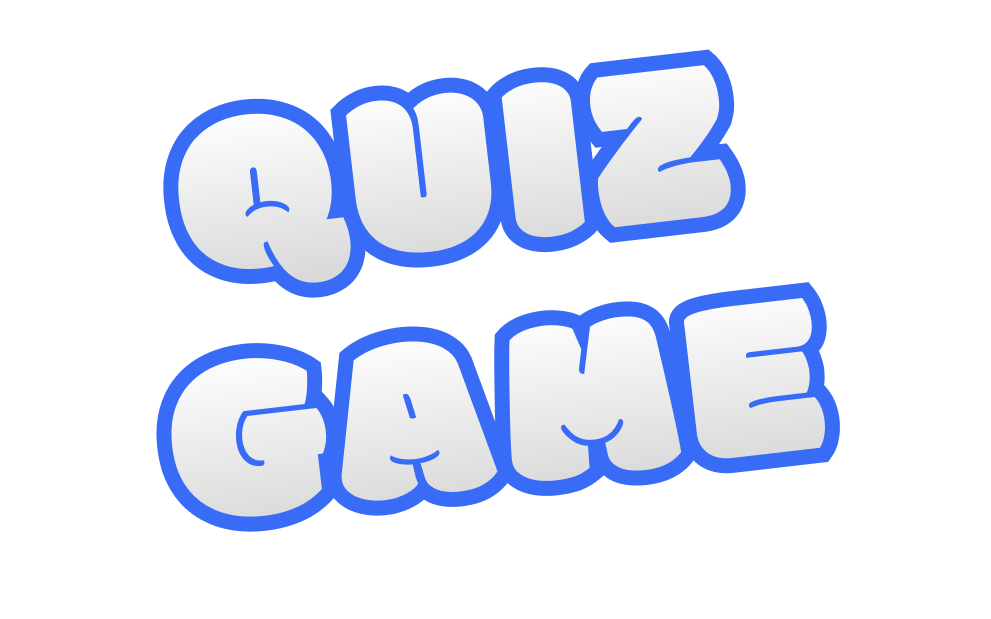
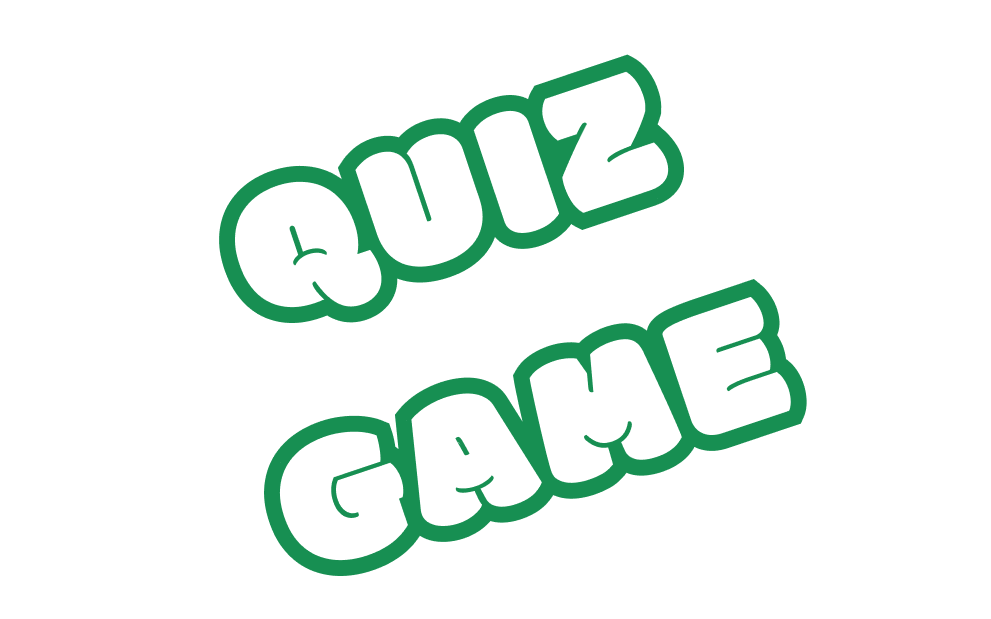
updated design of games

Changed region(s): [[0.1514, 0.0614, 0.8476, 0.9515]]

diff --git a/css/main.css b/css/main.css
@@ -1,6 +1,7 @@
 /* ==========================================================================
    Base styles: opinionated defaults
    ========================================================================== */
+   @import url('https://fonts.googleapis.com/css2?family=Cairo:wght@600&display=swap');
    html,button,input,select,textarea {
     color:#222;
     }
@@ -58,16 +59,16 @@
        Main styles
        ========================================================================== */
 
-    html{-webkit-tap-highlight-color: rgba(0,0,0,0);-webkit-user-select: none;-webkit-touch-callout:none; background:#8076dd;}
+    html{-webkit-tap-highlight-color: rgba(0,0,0,0);-webkit-user-select: none;-webkit-touch-callout:none; background:#178E52;}
 
     /*-- Percent Loader -- */
-    #mainLoader{position:absolute; z-index:5; display:none; font-size:30px; line-height:30px; color:#fff; text-align:center; width:100%; font-family:'Outfit';}
+    #mainLoader{position:absolute; z-index:5; display:none; font-size:30px; line-height:30px; color:#fff; text-align:center; width:100%; font-family:'Cairo';}
 
     /*-- Mobile Rotate Instruction -- */
-    #rotateHolder{position:absolute;width:100%;height:100%;background-color:#8076dd;z-index:1000; display:none;}
+    #rotateHolder{position:absolute;width:100%;height:100%;background-color:#178E52;z-index:1000; display:none;}
     .mobileRotate{width:200px;height:auto;position:absolute;text-align:center;top:45%;left:calc(50% - 100px)}
     .rotateImg{ margin-bottom:10px;}
-    .rotateDesc{color:#fff; font-size:20px; line-height:20px; font-family:'Outfit';}
+    .rotateDesc{color:#fff; font-size:20px; line-height:20px; font-family:'Cairo';}
     .rotatePortrait{ animation:spinPortrait .5s linear infinite; }
     .rotateLandscape{ animation:spinLandscape .5s linear infinite; }
 
@@ -83,7 +84,7 @@
     }
 
     /*-- Content Wrapper -- */
-    #mainHolder{position:relative; width:100%; height:100%; display:none; background: url(../assets/background.svg) center no-repeat; background-size: cover; font-family:'Outfit';}
+    #mainHolder{position:relative; width:100%; height:100%; display:none; background: url(../assets/background.svg) center no-repeat; background-size: cover; font-family:'Cairo';}
     #option{ position:absolute; top:15px; right:15px; z-index:20; width: 5%; max-width: 60px; min-width: 40px; }
     #buttonScoreboard{ position: absolute; right: 125%; }
     .buttonFullscreen, .buttonSound, .buttonExit{ margin:5px 0px;}
@@ -98,7 +99,7 @@
     .buttonOptionOff .optionOff{ display:none;}
 
     .buttonIcon{ width:100%;}
-    .fontLoader{font-family:'Outfit'; font-size:25px; line-height:25px; color:#fff;}
+    .fontLoader{font-family:'Cairo'; font-size:25px; line-height:25px; color:#fff;}
 
     /*-- Logo Wrapper -- */
     #logoHolder{display: table; position: absolute; height: 100%; width: 100%; color:#FFF; text-align:center;}
@@ -109,7 +110,7 @@
 
     /*-- Confirm Wrapper -- */
     #confirmHolder{ width:100%; height:100%; margin:auto; position:absolute; overflow: hidden; z-index:1000;}
-    .confirmContent .message{ position:absolute; background:#107FC9; width:50%; height:50%; left:25%; top:30%; text-align:center; -webkit-border-radius: 20px;-moz-border-radius: 20px;border-radius: 20px; color:#FFF; padding:5% 10%;}
+    .confirmContent .message{ position:absolute; background:#178E52; width:50%; height:50%; left:25%; top:30%; text-align:center; -webkit-border-radius: 20px;-moz-border-radius: 20px;border-radius: 20px; color:#FFF; padding:5% 10%;}
 
     .confirmContent .okImg{ position:absolute; width:20%; top:63%; left:29%;}
     .confirmContent .cancelImg{ position:absolute; width:20%; top:63%; right:29%;}
@@ -134,8 +135,8 @@
     #gameStatus{ position:absolute; top:0; left:0; margin:15px; width:100%; height:100%;}
     #gameStatus .gameTotal{ position:absolute; top:0; left:0; width:9%;}
     #gameStatus .gameTimer{ position:absolute; top:0; left:41%; width:15%; text-align:center;}
-    .gameQuestionStatus{ position:absolute; top:18%; text-align:center; color:#524e9a; width:100%;}
-    .gameTimerStatus{ position:absolute; top:18%; text-align:center; color:#524e9a; width:100%; left:18%;}
+    .gameQuestionStatus{ position:absolute; top:18%; text-align:center; color:#237C50; width:100%;}
+    .gameTimerStatus{ position:absolute; top:18%; text-align:center; color:#237C50; width:100%; left:18%;}
 
     #questionHolder{ position:relative; width:100%; height:100%;}
     #questionHolder .question{ position:absolute; width:100%; white-space: pre-line;}
@@ -177,12 +178,12 @@
     /*-- Scoreboard -- */
     #scoreboardHolder{display: table; position: absolute; height: 100%; width: 100%; display: none; top:0; }
     .resultExtra{ width:100%; height:100%; position:absolute; margin:auto; text-align:center; color:#fff; display:none;}
-    .scoreContent, .submitContent{ position:relative; background:#107FC9; width:85%; height:90%; -webkit-border-radius: 25px;-moz-border-radius: 25px;border-radius: 25px; margin:auto; margin-top:3%;}
+    .scoreContent, .submitContent{ position:relative; background:#178E52; width:85%; height:90%; -webkit-border-radius: 25px;-moz-border-radius: 25px;border-radius: 25px; margin:auto; margin-top:3%;}
     .scoreTitle{ padding:2% 0 0;}
     .scoreContent ul.scoreList{ list-style:none; padding:0; margin:1% auto; width:90%; position:relative; height:72%;}
     .scoreContent ul.scoreList li{ width: 100%; padding:1% 2%; display: table;}
     .scoreContent ul.scoreList li .list{ display: table-cell;}
-    .scoreContent ul.scoreList li:nth-child(odd) {	background:#1697ED; }
+    .scoreContent ul.scoreList li:nth-child(odd) {	background:#178E52; }
 
     .scoreContent .left{ position:absolute; width:5%; bottom:2%; left:5%; }
     .scoreContent .right{ position:absolute; width:5%; bottom:2%; right:5%; }
@@ -196,28 +197,28 @@
     .buttonCancelSubmit{ float:right; width:48%;}
 
 
-    .fontStatus{font-family:'Outfit'; font-size:30px; line-height:30px; color:#fff;}
-    .fontQuestion{ font-family:'Outfit';}
-    .fontAnswer{ font-family:'Outfit';}
-    .fontAnswerInput{ font-family:'Outfit';}
-    .fontCorrectWrong{ font-family:'Outfit';}
-    .fontResultScore{font-family:'Outfit';}
-    .fontShare{font-family:'Outfit';}
-    .fontCategory{font-family:'Outfit';}
-    .fontMessage{font-family:'Outfit';}
-    .fontPreload{font-family:'Outfit';}
-    .fontScoreTitle{font-family:'Outfit';}
-    .fontScoreList{font-family:'Outfit';}
-    .fontLabel{font-family:'Outfit';}
-    .fontInput{font-family:'Outfit';}
-    .fontError{font-family:'Outfit'; color: #FFBF00;}
+    .fontStatus{font-family:'Cairo'; font-size:30px; line-height:30px; color:#fff;}
+    .fontQuestion{ font-family:'Cairo';}
+    .fontAnswer{ font-family:'Cairo';}
+    .fontAnswerInput{ font-family:'Cairo';}
+    .fontCorrectWrong{ font-family:'Cairo';}
+    .fontResultScore{font-family:'Cairo';}
+    .fontShare{font-family:'Cairo';}
+    .fontCategory{font-family:'Cairo';}
+    .fontMessage{font-family:'Cairo';}
+    .fontPreload{font-family:'Cairo';}
+    .fontScoreTitle{font-family:'Cairo';}
+    .fontScoreList{font-family:'Cairo';}
+    .fontLabel{font-family:'Cairo';}
+    .fontInput{font-family:'Cairo';}
+    .fontError{font-family:'Cairo'; color: #FFBF00;}
 
     /*-- Form Wrapper -- */
     #editWrapper{ display:none;}
-    #floatForm{ position:absolute; left:0; top:0; z-index:100; background:#4DA6FF; padding:15px; color:#FFF; width:280px; border:#fff solid 2px;}
+    #floatForm{ position:absolute; left:0; top:0; z-index:100; background:#178E52; padding:15px; color:#FFF; width:280px; border:#fff solid 2px;}
     #floatForm{ font-size:12px;}
-    #floatForm #questionWrapper, #floatForm #answersWrapper, #floatForm #inputsWrapper, #floatForm #explanationWrapper, #floatForm #sortWrapper, #floatForm #templateWrapper, #floatForm #videoWrapper, #floatForm #categoryWrapper, #floatForm #sortAnswerWrapper, #floatForm #groupsWrapper{ background:#0080FF; padding:10px;}
-    #floatForm .innerWrapper{ background:#4DA6FF; padding:10px;}
+    #floatForm #questionWrapper, #floatForm #answersWrapper, #floatForm #inputsWrapper, #floatForm #explanationWrapper, #floatForm #sortWrapper, #floatForm #templateWrapper, #floatForm #videoWrapper, #floatForm #categoryWrapper, #floatForm #sortAnswerWrapper, #floatForm #groupsWrapper{ background:#178E52; padding:10px;}
+    #floatForm .innerWrapper{ background:#178E52; padding:10px;}
 
     #floatForm input.button, #floatForm select.half, #floatForm label{ width:49%;}
     #floatForm .formRow{ height:25px; }

diff --git a/js/game.js b/js/game.js
@@ -82,7 +82,7 @@ var videoProperty = {
 var answersProperty = {
 	fontSize: 40,
 	lineHeight: 40,
-	color: "#fff",
+	color: "#000",
 	align: "center",
 	width: 30,
 	height: 14,
@@ -92,8 +92,8 @@ var answersProperty = {
 var answersButtonProperty = {
 	status: true, //toggle answer button background
 	roundNumber: 15, //answer button background round corner number
-	color: "#a2cd4a", //answer button background colour
-	shadowColor: "#6fad4e", //answer button background shadow colour
+	color: "#ffffff", //answer button background colour
+	shadowColor: "#007A41", //answer button background shadow colour
 	answerdColor: "#f89a31", //answered button background colour
 	answerdShadowColor: "#dc4832", //answered button background shadow colour
 	wrongColor: "#989898", //answered button background colour
